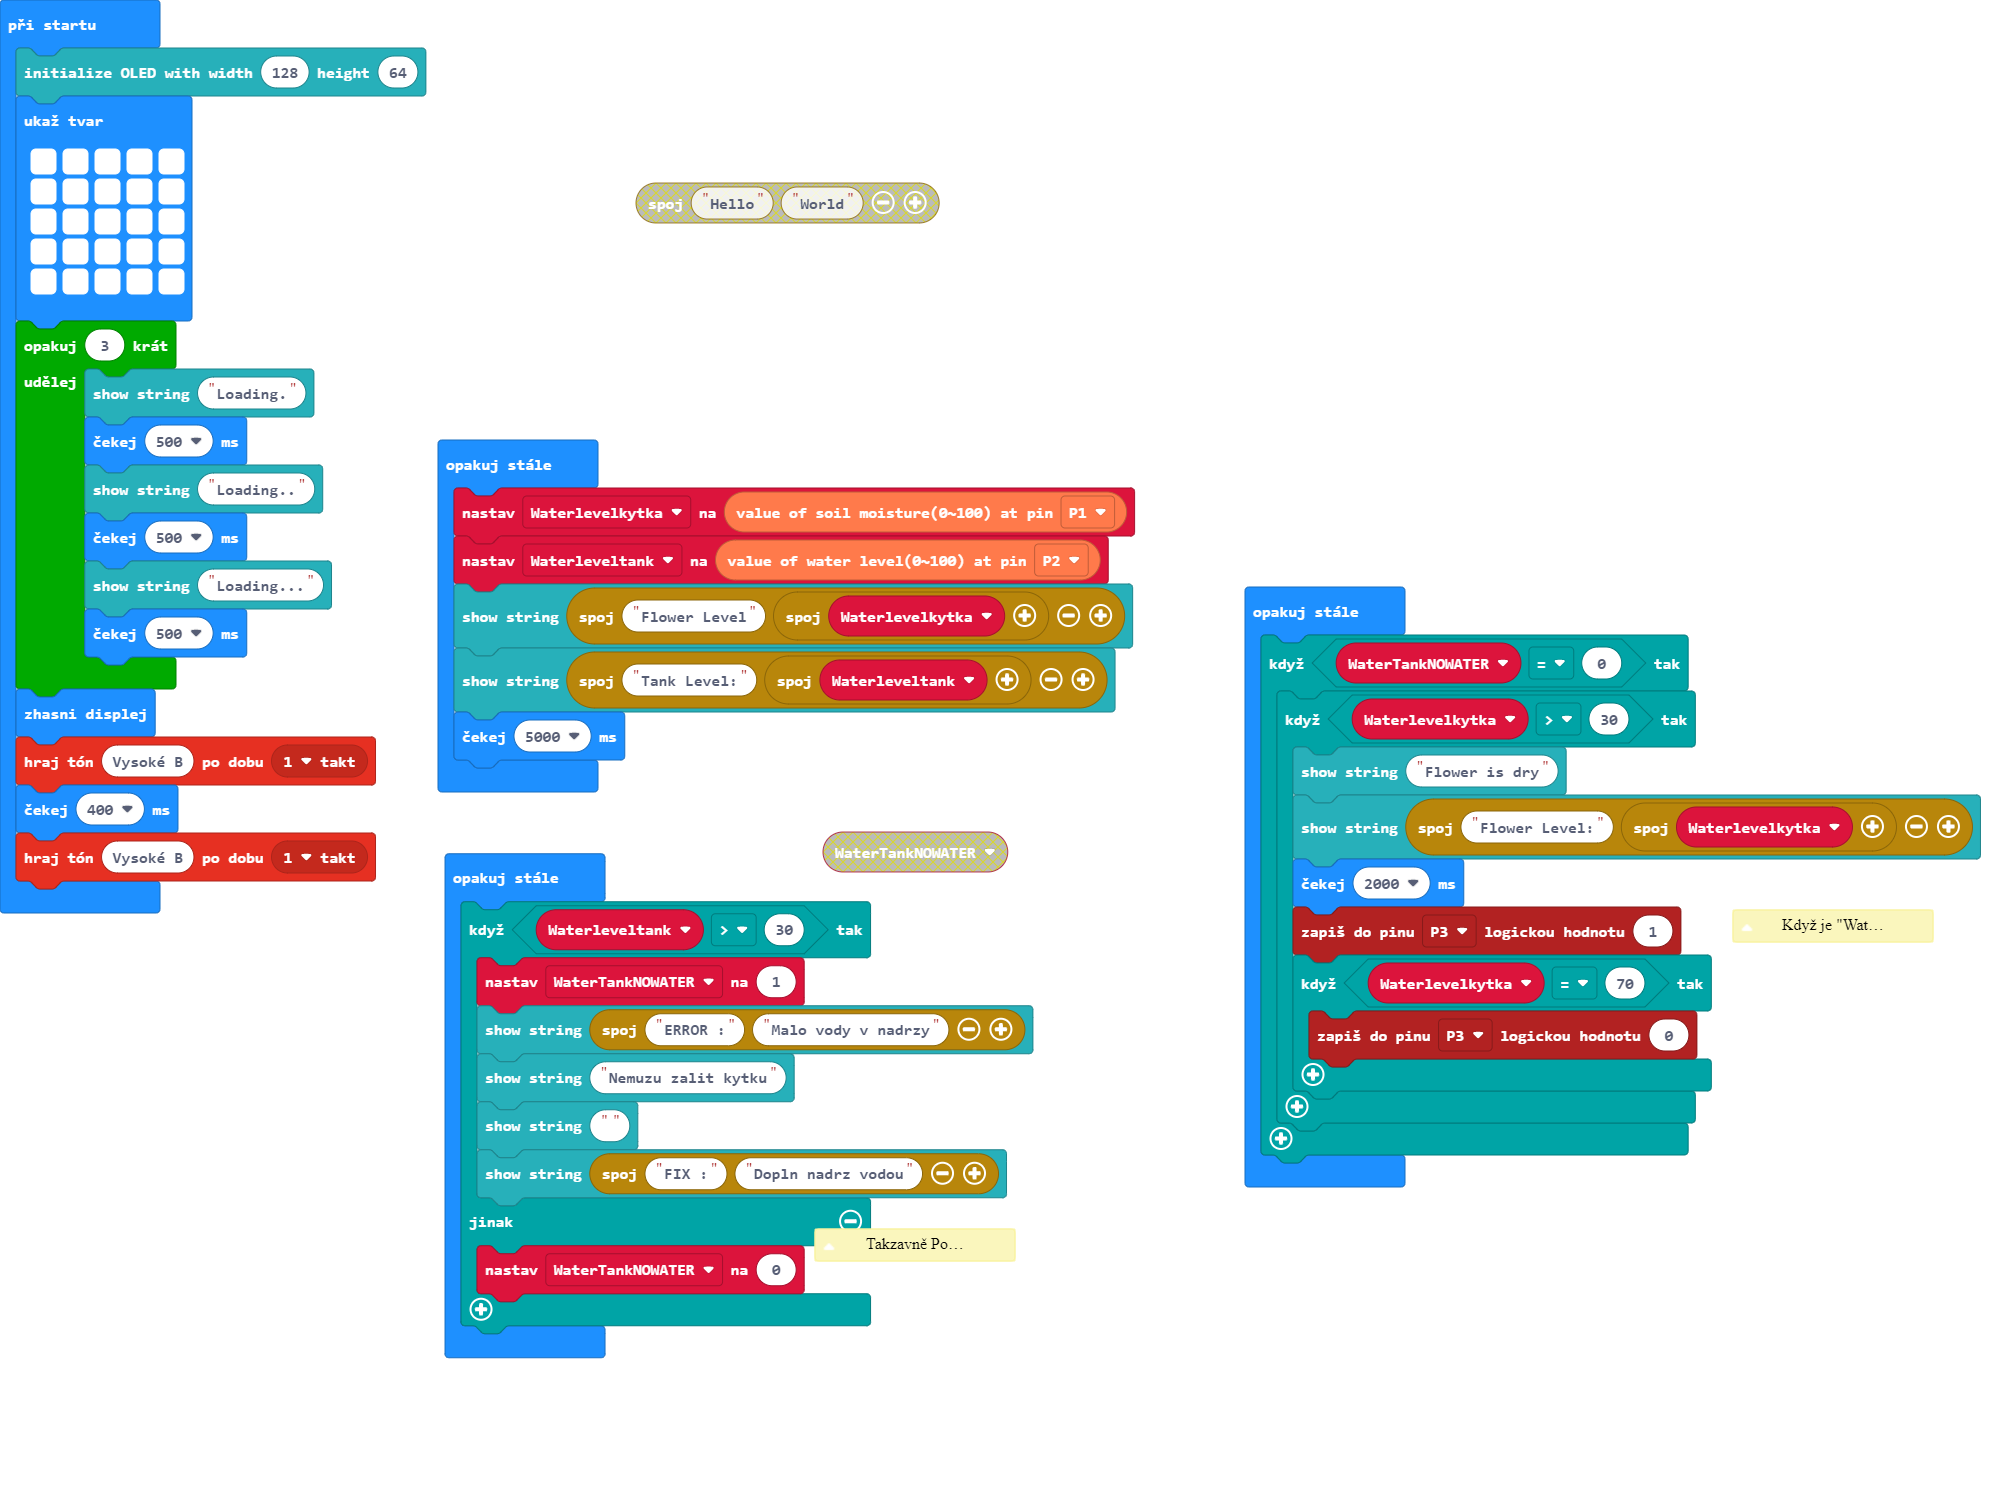
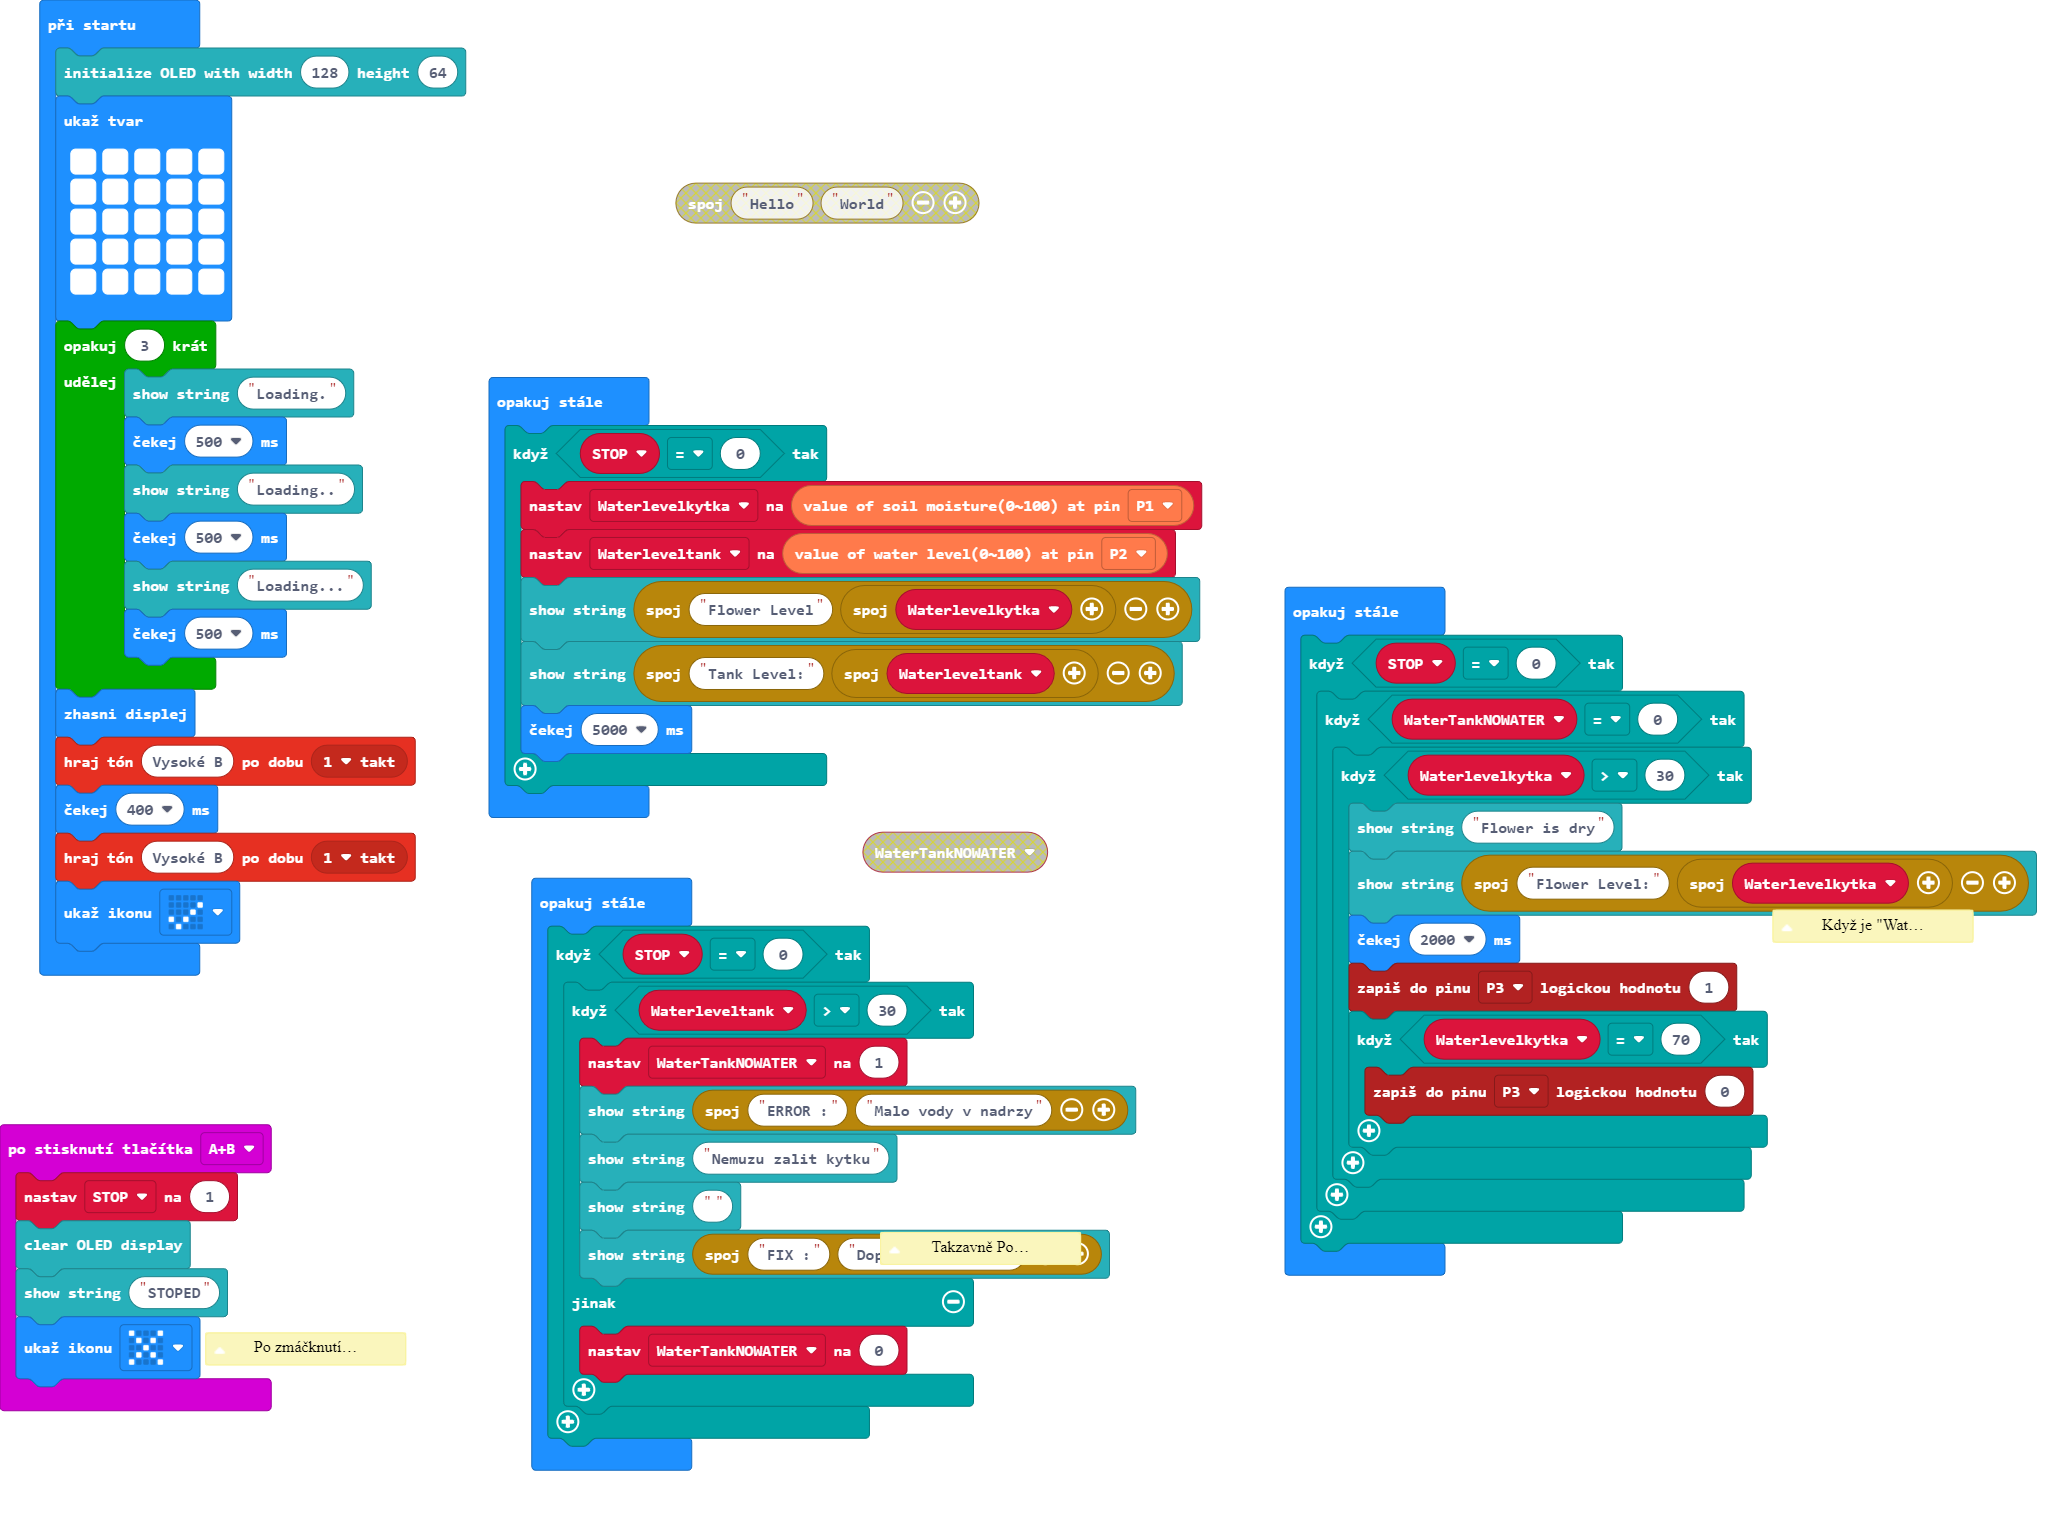
Přidáno STOP tlačítko

diff --git a/main.ts b/main.ts
@@ -1,6 +1,18 @@
+/**
+ * Po zmáčknutí A+B
+ * 
+ * Se všechno zastaví
+ */
+input.onButtonPressed(Button.AB, function () {
+    STOP = 1
+    OLED.clear()
+    OLED.writeStringNewLine("STOPED")
+    basic.showIcon(IconNames.No)
+})
 let WaterTankNOWATER = 0
 let Waterleveltank = 0
 let Waterlevelkytka = 0
+let STOP = 0
 OLED.init(128, 64)
 basic.showLeds(`
     # # # # #
@@ -21,12 +33,15 @@ basic.clearScreen()
 music.playTone(988, music.beat(BeatFraction.Whole))
 basic.pause(400)
 music.playTone(988, music.beat(BeatFraction.Whole))
+basic.showIcon(IconNames.Yes)
 basic.forever(function () {
-    Waterlevelkytka = Environment.ReadSoilHumidity(AnalogPin.P1)
-    Waterleveltank = Environment.ReadWaterLevel(AnalogPin.P2)
-    OLED.writeStringNewLine("Flower Level" + ("" + Waterlevelkytka))
-    OLED.writeStringNewLine("Tank Level:" + ("" + Waterleveltank))
-    basic.pause(5000)
+    if (STOP == 0) {
+        Waterlevelkytka = Environment.ReadSoilHumidity(AnalogPin.P1)
+        Waterleveltank = Environment.ReadWaterLevel(AnalogPin.P2)
+        OLED.writeStringNewLine("Flower Level" + ("" + Waterlevelkytka))
+        OLED.writeStringNewLine("Tank Level:" + ("" + Waterleveltank))
+        basic.pause(5000)
+    }
 })
 /**
  * Když je "WaterTankNOWATER" "0" tak se spustí další command když je "Waterlevelkytka" ">30"
@@ -34,14 +49,16 @@ basic.forever(function () {
  * tak se zobrazí text flower is dry a čerpadlo pustí vodu dokud vlhkost pudy nebude 70%
  */
 basic.forever(function () {
-    if (WaterTankNOWATER == 0) {
-        if (Waterlevelkytka > 30) {
-            OLED.writeStringNewLine("Flower is dry")
-            OLED.writeStringNewLine("Flower Level:" + ("" + Waterlevelkytka))
-            basic.pause(2000)
-            pins.digitalWritePin(DigitalPin.P3, 1)
-            if (Waterlevelkytka == 70) {
-                pins.digitalWritePin(DigitalPin.P3, 0)
+    if (STOP == 0) {
+        if (WaterTankNOWATER == 0) {
+            if (Waterlevelkytka > 30) {
+                OLED.writeStringNewLine("Flower is dry")
+                OLED.writeStringNewLine("Flower Level:" + ("" + Waterlevelkytka))
+                basic.pause(2000)
+                pins.digitalWritePin(DigitalPin.P3, 1)
+                if (Waterlevelkytka == 70) {
+                    pins.digitalWritePin(DigitalPin.P3, 0)
+                }
             }
         }
     }
@@ -60,13 +77,15 @@ basic.forever(function () {
  * "0" Tím pádem se muže používat čerpadlo
  */
 basic.forever(function () {
-    if (Waterleveltank > 30) {
-        WaterTankNOWATER = 1
-        OLED.writeStringNewLine("ERROR :" + "Malo vody v nadrzy")
-        OLED.writeStringNewLine("Nemuzu zalit kytku")
-        OLED.writeStringNewLine("")
-        OLED.writeStringNewLine("FIX :" + "Dopln nadrz vodou")
-    } else {
-        WaterTankNOWATER = 0
+    if (STOP == 0) {
+        if (Waterleveltank > 30) {
+            WaterTankNOWATER = 1
+            OLED.writeStringNewLine("ERROR :" + "Malo vody v nadrzy")
+            OLED.writeStringNewLine("Nemuzu zalit kytku")
+            OLED.writeStringNewLine("")
+            OLED.writeStringNewLine("FIX :" + "Dopln nadrz vodou")
+        } else {
+            WaterTankNOWATER = 0
+        }
     }
 })
